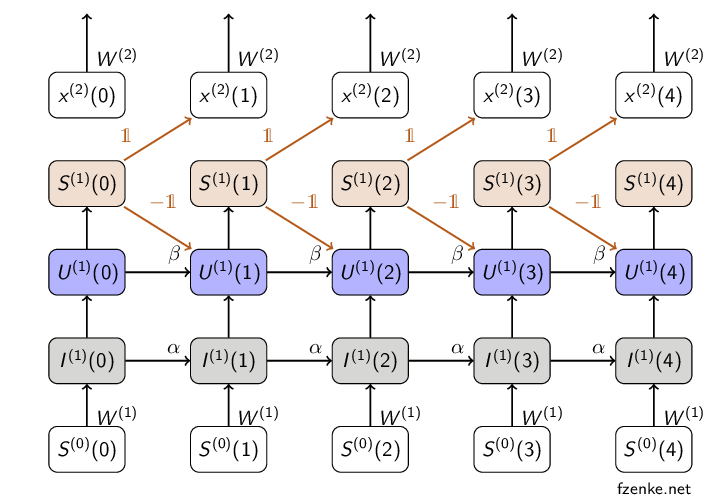
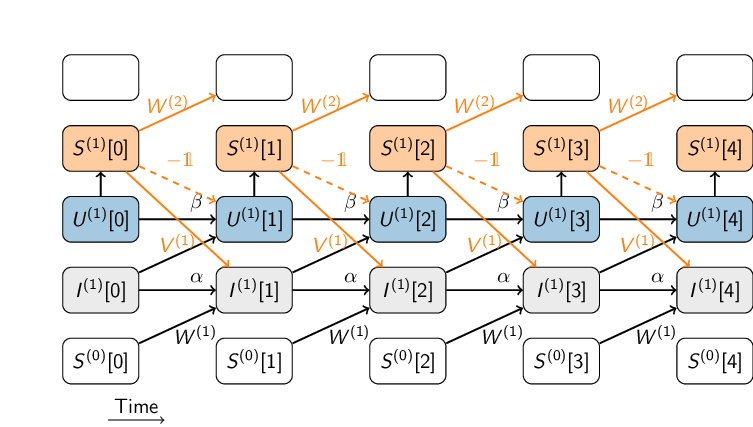
Updates SNN graph figure

diff --git a/notebooks/figures/snn_graph/snn_graph.tex b/notebooks/figures/snn_graph/snn_graph.tex
@@ -7,46 +7,48 @@
 \usepackage{bbold}
 \usepackage{dsfont}
 \usetikzlibrary{shapes,arrows}
+\usetikzlibrary{positioning,quotes}
+
+\renewcommand{\familydefault}{\sfdefault}
+
 \begin{document}
 \pagestyle{empty}
 
-% \renewcommand{\familydefault}{\sfdefault}
-
-\definecolor{spikecolor}{RGB}{180,89,23}
+\definecolor{spikecolor}{RGB}{180,51,76}
+\definecolor{pyblue}{HTML}{1f77b4}
+\definecolor{pyorange}{HTML}{ff7f0e}
 
 
 % Define block styles
 \tikzstyle{block} = [rectangle, draw, text width=3em, text centered, rounded
 corners, minimum height=2.2em]
-\tikzstyle{sum} = [block ]
-\tikzstyle{syn} = [block, fill=black!20 ]
-\tikzstyle{mem} = [block, fill=blue!30 ]
-\tikzstyle{spk} = [block, fill=spikecolor!20 ]
-    
-\begin{tikzpicture}[node distance = 1.5cm, auto, font=\sffamily]
+\tikzstyle{sum} = [block]
+\tikzstyle{syn} = [block, fill=black!10 ]
+\tikzstyle{mem} = [block, fill=pyblue!40 ]
+\tikzstyle{spk} = [block, fill=pyorange!40 ]
+   
+
+\begin{tikzpicture}[node distance = 1.2cm, auto]
     \pgfmathsetmacro{\n}{4}  % sets number of units -1
     \pgfmathsetmacro{\nm}{3}  % set to \n -1
-    \pgfmathsetmacro{\sep}{2.4}  
+    \pgfmathsetmacro{\sep}{2.6}  
 
 	% Place nodes 
 	\foreach \t in {0,...,\n} {
-		\node [sum] (x\t) at (\sep*\t,0) {$S^{(0)}(\t)$};
-		\node [syn, above of=x\t] (I\t) {$I^{(1)}(\t)$};
-		\node [mem, above of=I\t] (U\t) {$U^{(1)}(\t)$};
-		\node [spk, above of=U\t] (S\t) {$S^{(1)}(\t)$};
-		\node [sum, above of=S\t] (y\t) {$x^{(2)}(\t)$};
+		\node [sum] (x\t) at (\sep*\t,0) {$S^{(0)}[\t]$};
+		\node [syn, above of=x\t] (I\t) {$I^{(1)}[\t]$};
+		\node [mem, above of=I\t] (U\t) {$U^{(1)}[\t]$};
+		\node [spk, above of=U\t] (S\t) {$S^{(1)}[\t]$};
+		\node [block, above of=S\t] (y\t) {};
 		\node [above of=y\t] (downstream\t) {};
 	}
-	\node [below of=x\n, node distance=0.66cm] {\footnotesize fzenke.net};
 
 
     % Draw edges
 	\foreach \t in {0,...,\n} {
-    	\path [->, draw, thick] (x\t) -- (I\t) node[near start, right] {$W^{(1)}$};
-    	\path [->, draw, thick] (I\t) -- (U\t);
     	\path [->, draw, thick] (U\t) -- (S\t);
-    	\path [->, draw, thick] (y\t) -- (downstream\t) node[near start, right]
-		{$W^{(2)}$};
+    	% \path [->, draw, thick] (y\t) -- (downstream\t) node[near start, right]
+		% {$W^{(1,2)}$};
 		% \path [->, draw, thick, spikecolor] (upstream\t) -- (x\t) node[near end,
 		% right] {$W^{(0,1)}$};
 	}
@@ -54,14 +56,26 @@ corners, minimum height=2.2em]
 	% Forward in time
 	\foreach \t in {0,...,\nm} {
 		\pgfmathtruncatemacro{\next}{\t + 1}
+		\path [->, draw, thick] (x\t) -- (I\next) node[near start, right]
+		{~$W^{(1)}$};
+    	\path [->, draw, thick] (I\t) -- (U\next);
+
     	\path [->, draw, thick] (I\t) -- (I\next) node[near end] {$\alpha$};
 		\path [->, draw, thick] (U\t) -- (U\next) node[near end] {$\beta$};
 
-		\path [->, draw, thick, spikecolor] (S\t) -- (y\next) node[near start] {$\mathds{1}$};
-		\path [->, draw, thick, spikecolor] (S\t) -- (U\next) node[near start] {$-\mathds{1}$};
-		% \path [->, draw, thick, spikecolor] (S\t) -- (I\next) node[near end, left] {$W^{(1,1)}$};
+		\path [->, draw, thick, pyorange] (S\t) -- (y\next) node[near end,
+		left] {$W^{(2)}$};
+		\path [->, draw, thick, pyorange, dashed] (S\t) -- (U\next) node[near start] {$-\mathds{1}$};
+		\path [->, draw, thick, pyorange] (S\t) -- (I\next) node[near end,
+		left] {$V^{(1)}$};
 
 	}
+
+	\node[node distance=1.0cm, below of=x0] (a0) {};
+	\node[right of=a0] (a1) {};
+	% \path [->, draw, thick, black] (a0) -- (a1) node[near start, below] {Time};
+
+	\draw  (a0)  edge[->,"Time"]  (a1) ;
 
 \end{tikzpicture}
 
